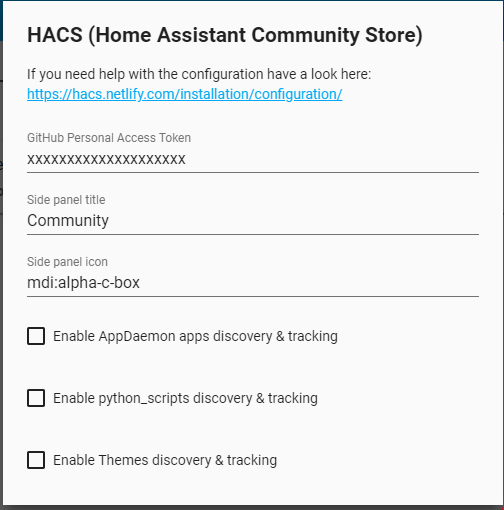
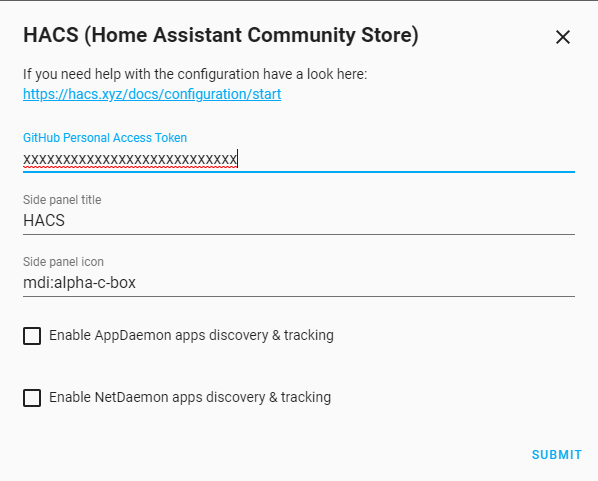
Adds netdaemon documentation

Changed region(s): [[0.0, 0.0, 1.0, 1.0], [0.9226, 0.0624, 0.9524, 0.0936]]

diff --git a/src/pages/index.js b/src/pages/index.js
@@ -41,6 +41,11 @@ const features2 = [
     title: <>Themes</>,
     Url: "/docs/categories/themes",
     description: (<></>),
+  },
+  {
+    title: <>NetDaemon Apps</>,
+    Url: "/docs/categories/netdaemon_apps",
+    description: (<></>),
   }
 ]
 

diff --git a/script/generate_default_repositories.py b/script/generate_default_repositories.py
@@ -20,7 +20,7 @@ theme_org = github.get_organization("home-assistant-community-themes")
 blacklist = requests.get('https://raw.githubusercontent.com/hacs/default/master/blacklist')
 blacklist = json.loads(blacklist.text.lower())
 
-for category in ["integration", "plugin", "appdaemon", "python_script", "theme"]:
+for category in ["integration", "plugin", "appdaemon", "netdaemon", "python_script", "theme"]:
     response = requests.get(f'https://raw.githubusercontent.com/hacs/default/master/{category}')
     repos = json.loads(response.text.lower())
     if category == "integration":
@@ -36,7 +36,12 @@ for category in ["integration", "plugin", "appdaemon", "python_script", "theme"]
         if repo in blacklist:
             repos.remove(repo)
 
-    title = category.replace("_", " ").title() + 's' if category != 'appdaemon' else 'AppDaemon Apps'
+    title = category.replace("_", " ").title() + 's' 
+    if category == 'appdaemon':
+        title = 'AppDaemon Apps'
+    elif category == 'netdaemon':
+        title = 'NetDaemon Apps'
+
     BASE += f"\n## {title}\n\n"
     BASE += f"_{len(repos)} Repositories in total._\n\n"
     for repo in sorted(repos):

diff --git a/documentation/categories/netdaemon_apps.md b/documentation/categories/netdaemon_apps.md
@@ -1,0 +1,40 @@
+---
+id: netdaemon_apps
+title: NetDaemon Apps
+description: "Category: NetDaemon Apps"
+---
+
+NetDaemon apps are apps for [NetDaemon](https://helto4real.github.io/netdaemon/)
+
+Since not all users are running NetDaemon, NetDaemon is **not** enabled by default in HACS.
+
+## Enable NetDaemon apps in HACS
+
+_There are 2 ways of doing this._
+
+### Enable if you used the UI to configure HACS
+
+Add a checkmark to the left of NetDaemon apps in the UI configuration for HACS.
+
+![configuration](/img/conf4.png)
+
+[For more about configuring HACS with the UI have a look here](configuration/basic.md)
+
+### Enable if you used YAML to configure HACS
+
+If you used YAML to configure HACS, add this under your HACS configuration to enable NetDaemon apps:
+
+```yaml
+hacs:
+  ...
+  netdaemon: true
+```
+
+After adding that you need to restart Home Assistant.
+
+[For more about configuring HACS with YAML have a look here](configuration/legacy.md)
+
+
+## NetDaemon apps download location
+
+Any NetDaemon app downloaded with HACS is stored in `netdaemon/apps/` in your Home Assistant configuration directory.

diff --git a/documentation/configuration/legacy.md b/documentation/configuration/legacy.md
@@ -20,6 +20,7 @@ key | optional | default | description
 `sidepanel_title` | True | Community | The name used for the sidepanel link.
 `sidepanel_icon` | True | "mdi:alpha-c-box" | The icon used for the sidepanel link.
 `appdaemon` | True | `False` | Enable tracking of AppDaemon apps.
+`netdaemon` | True | `False` | Enable tracking of NetDaemon apps.
 `python_script` | True | `False` | [DEPRECATED!] Enable tracking of python scripts.
 `theme` | True | `False` | [DEPRECATED!] Enable tracking of themes.
 `options` | True |  | A map of options.
@@ -28,6 +29,7 @@ key | optional | default | description
 
 ```yaml
 hacs:
+  token: xxxxxxxxxxxxxxxxxxxxxxxxx
   ...
   options:
     ...
